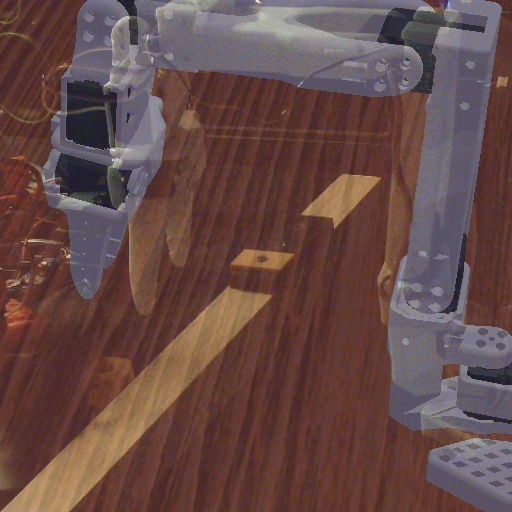
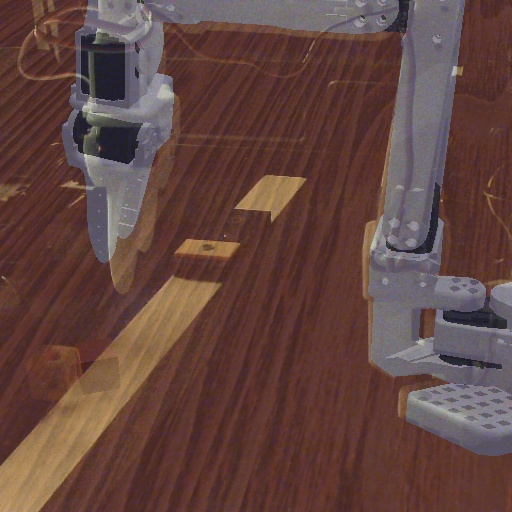
Created greenscreen

diff --git a/docs/zero_shot_rgb_sim2real.md b/docs/zero_shot_rgb_sim2real.md
@@ -23,9 +23,9 @@ First you should update the `lerobot_sim2real/config/real_robot.py` file to matc
 
 ## 1: Setup your simulation and real world environment
 
-We provide a pre-built [simulation environment called SO100GraspCube-v1](https://github.com/haosulab/ManiSkill/tree/main/mani_skill/envs/tasks/digital_twins/so100_arm/grasp_cube.py) that only needs a few minor modifications for your own use. If you are interested in making your own environments to then tackle via sim2real reinforcement learning we recommend you finish this tutorial first, then learn how to [create custom simulated tasks in ManiSkill](https://maniskill.readthedocs.io/en/latest/user_guide/tutorials/custom_tasks/index.html), then follow the tutorial on how to [design them for sim2real support](https://maniskill.readthedocs.io/en/latest/user_guide/tutorials/sim2real/index.html)
+We provide a pre-built [simulation environment called SO101GraspCube-v1](https://github.com/haosulab/ManiSkill/tree/main/mani_skill/envs/tasks/digital_twins/so100_arm/grasp_cube.py) that only needs a few minor modifications for your own use. If you are interested in making your own environments to then tackle via sim2real reinforcement learning we recommend you finish this tutorial first, then learn how to [create custom simulated tasks in ManiSkill](https://maniskill.readthedocs.io/en/latest/user_guide/tutorials/custom_tasks/index.html), then follow the tutorial on how to [design them for sim2real support](https://maniskill.readthedocs.io/en/latest/user_guide/tutorials/sim2real/index.html)
 
-In this section we need to roughly align the real world and simulation environments. This means we need to decide where the robot is installed, and where the camera is relative to the robot. 
+In this section we need to roughly align the real world and simulation environments. This means we need to decide where the robot is installed, and where the camera is relative to the robot.
 
 ## 1.1: Setup simulation camera and object spawn region
 
@@ -36,7 +36,7 @@ First thing to do is to decide in simulation where to put the 3rd-view camera re
 To make modifications you can just edit the "base_camera_settings"."pos" value in the `env_config.json` file in the root of the repository. We use this config file to modify environment defaults when training (you can pass in a different file path if you want). To visualize what you just did you can record a video of your environment being reset randomly to get a sense of where the camera is and see how the object positions are randomized.
 
 ```bash
-python lerobot_sim2real/scripts/record_reset_distribution.py --env-id="SO100GraspCube-v1" --env-kwargs-json-path=env_config.json
+python lerobot_sim2real/scripts/record_reset_distribution.py --env-id="SO101GraspCube-v1" --env-kwargs-json-path=env_config.json
 ```
 
 https://github.com/user-attachments/assets/905c2c5c-6cf4-43a9-8cb8-fa40748fffef
@@ -48,8 +48,7 @@ The default options for the sim settings are tested and should work so you can a
 > [!NOTE]
 > Occlusion can make grasping a cube harder. If you plan to modify the sim environment make sure the cube is always visible, close to the camera, and generally not behind the robot from the camera's perspective. If it isn't, you can modify the camera accordingly or also modify the spawn region for the cube in the env_config.json file. Moreover larger spawn region areas will take longer to learn to solve in simulation.
 
-
-You might also notice that we often use `--env-id="SO100GraspCube-v1" --env-kwargs-json-path=env_config.json` in scripts. The codebase is built to support different environments and configurations so passing these tells those scripts which environment you want to work with and with what settings.
+You might also notice that we often use `--env-id="SO101GraspCube-v1" --env-kwargs-json-path=env_config.json` in scripts. The codebase is built to support different environments and configurations so passing these tells those scripts which environment you want to work with and with what settings.
 
 Before we start setting up the real camera you might also want to check if your robot's colors match the simulation one. The default is white parts and black motors, but you can modify the color by changing the "robot_color" part of the `env_config.json` file to either be "random" or a value like [0.1, 0.1, 0.1] for black colored robots.
 
@@ -68,23 +67,22 @@ Then place the camera approximately where it is in simulation relative to the ro
 Next you can run the next script which will help you align the camera a bit. It will open a live window that overlays the simulation rendered image on top of the real world image. Your goal is to move and nudge the real world camera's position and orientation until you see the simulation and real world image overlay line up. Some cameras also have different intrinsics/fovs, while running this script you can also tune the field of view (FOV) value by pressing the left and right keys. This stage doesn't have to be perfectly done as we leverage domain randomization during RL training to support larger margins of error, but the closer the alignment the better. This is the hardest part of the tutorial and does take a little bit of practice. One recommendation to help make this easier is to first get a sense of how translation and rotation in the x, y, z axes of the real camera affect the overlay image and to slowly move in each direction one by one.
 
 ```bash
-python lerobot_sim2real/scripts/camera_alignment.py --env-id="SO100GraspCube-v1" --env-kwargs-json-path=env_config.json
+python lerobot_sim2real/scripts/camera_alignment.py --env-id="SO101GraspCube-v1" --env-kwargs-json-path=env_config.json
 ```
 
-Two examples are shown below, both of which after RL training worked out fine and produced working real world deployable models. Note that there are obvious errors here but that's fine! 
+Two examples are shown below, both of which after RL training worked out fine and produced working real world deployable models. Note that there are obvious errors here but that's fine!
 
 > [!NOTE]
 > Based on testing from the community, alignment that looks worse than the ones here will struggle a lot more to work during sim2real transfer. We recommend using a camera stand with multiple degrees of freedom in different axes and using your hand to slowly move the camera around until it lines up well. This does take some practice but once you get the hang of it it becomes much easier to do. It is possible to permit even more calibration error but will require more advanced techniques and modifications to training that we leave as open research problems.
 
 ![](./assets/camera_alignment_step_1.2.png)
 
-
-## 1.3: Get an image for greenscreening to bridge the sim2real visual gap 
+## 1.3: Get an image for greenscreening to bridge the sim2real visual gap
 
 Once the camera looks well aligned, you need to take the robot off the surface/table and then take a picture of the background using the following script. It will save to a file `greenscreen.png`. If you can't unmount the robot, you can take the picture anyway and use photo editing tools or AI to remove the robot and inpaint the background.
 
 ```bash
-python lerobot_sim2real/scripts/capture_background_image.py --env-id="SO100GraspCube-v1" --env-kwargs-json-path=env_config.json --out=greenscreen.png
+python lerobot_sim2real/scripts/capture_background_image.py --env-id="SO101GraspCube-v1" --env-kwargs-json-path=env_config.json --out=greenscreen.png
 ```
 
 Note that we still use the simulation environment here but primarily to determine how to crop the background image. If the sim camera resolution is 128x128 (the default) we crop the greenscreen image down to 128x128. Once the greenscreen.png file is saved, modify "greenscreen_overlay_path" key in the env_config.json file to include the path to that file.
@@ -92,32 +90,31 @@ Note that we still use the simulation environment here but primarily to determin
 After capturing a greenscreen image mount the robot back to where it was originally. If you want to double check you can run the camera alignment script with the green screen image supplied and nudge the real robot mount location until it lines up. Simply run the camera alignment script again after updating the "greenscreen_overlay_path" key in env_config.json.
 
 ```bash
-python lerobot_sim2real/scripts/camera_alignment.py --env-id="SO100GraspCube-v1" --env-kwargs-json-path=env_config.json
+python lerobot_sim2real/scripts/camera_alignment.py --env-id="SO101GraspCube-v1" --env-kwargs-json-path=env_config.json
 ```
 
 This will then produce something like below. Again it is not perfect alignment but this can still work!
 
 ![](./assets/camera_alignment_step_1.3.png)
 
-
 ## 2: Visual Reinforcement Learning in Simulation
 
 Now we get to train the robot we setup in the real world in simulation via RL. We provide a baseline training script for visual Proximal Policy Optimization (PPO), which accepts environment id and the env configuration json file so that we can train on an environment aligned with the real world. If you haven't already make sure to add the path to the greenscreen image in your env_config.json file.
 
-For the SO100GraspCube-v1 environment we have the following already tuned script (uses about 8-10GB of GPU memory)
+For the SO101GraspCube-v1 environment we have the following already tuned script (uses about 8-10GB of GPU memory)
 
 ```bash
 seed=3
-python lerobot_sim2real/scripts/train_ppo_rgb.py --env-id="SO100GraspCube-v1" --env-kwargs-json-path=env_config.json \
+python lerobot_sim2real/scripts/train_ppo_rgb.py --env-id="SO101GraspCube-v1" --env-kwargs-json-path=env_config.json \
   --ppo.seed=${seed} \
   --ppo.num_envs=1024 --ppo.num-steps=16 --ppo.update_epochs=8 --ppo.num_minibatches=32 \
   --ppo.total_timesteps=100_000_000 --ppo.gamma=0.9 \
   --ppo.num_eval_envs=16 --ppo.num-eval-steps=64 --ppo.no-partial-reset \
-  --ppo.exp-name="ppo-SO100GraspCube-v1-rgb-${seed}" \
+  --ppo.exp-name="ppo-SO101GraspCube-v1-rgb-${seed}" \
   --ppo.track --ppo.wandb_project_name "SO100-ManiSkill"
 ```
 
-This will train an agent via RL/PPO and track its training progress on Weights and Biases and Tensorboard. Run `tensorboard --logdir runs/` to see the local tracking. Checkpoints are saved to `runs/ppo-SO100GraspCube-v1-rgb-${seed}/ckpt_x.pt` and evaluation videos in simulation are saved to `runs/ppo-SO100GraspCube-v1-rgb-${seed}/videos`. If you have more GPU memory available you can train faster by bumping the `--ppo.num_envs` argument up to 2048.
+This will train an agent via RL/PPO and track its training progress on Weights and Biases and Tensorboard. Run `tensorboard --logdir runs/` to see the local tracking. Checkpoints are saved to `runs/ppo-SO101GraspCube-v1-rgb-${seed}/ckpt_x.pt` and evaluation videos in simulation are saved to `runs/ppo-SO101GraspCube-v1-rgb-${seed}/videos`. If you have more GPU memory available you can train faster by bumping the `--ppo.num_envs` argument up to 2048.
 
 While training you can check out the eval videos which by default look like the following 4x4 grid showing 16 parallel environments:
 
@@ -129,8 +126,7 @@ Moreover, for this environment the evaluation result curves may look approximate
 
 ![](./assets/eval_return_success_curves.png)
 
-For the SO100GraspCube-v1 task you don't need 100_000_000 timesteps of training for successful deployment. We find that around 25 to 40 million are enough, which take about an hour of training on a 4090 GPU. Over training can sometimes lead to worse policies! Generally make sure first your policy reaches a high evaluation success rate in simulation before considering taking a checkpoint and deploying it.
-
+For the SO101GraspCube-v1 task you don't need 100_000_000 timesteps of training for successful deployment. We find that around 25 to 40 million are enough, which take about an hour of training on a 4090 GPU. Over training can sometimes lead to worse policies! Generally make sure first your policy reaches a high evaluation success rate in simulation before considering taking a checkpoint and deploying it.
 
 ## 3: Real World Deployment
 
@@ -139,7 +135,7 @@ Now you have a checkpoint you have trained and want to evaluate, place a cube on
 Then you run your model on the real robot with the following. Note that each time the real environment needs to be reset you will be prompted in the terminal to do so and to press enter to start the next evaluation episode.
 
 ```bash
-python lerobot_sim2real/scripts/eval_ppo_rgb.py --env_id="SO100GraspCube-v1" --env-kwargs-json-path=env_config.json \
+python lerobot_sim2real/scripts/eval_ppo_rgb.py --env_id="SO101GraspCube-v1" --env-kwargs-json-path=env_config.json \
     --checkpoint=path/to/ckpt.pt --no-continuous-eval --control-freq=15
 ```
 
